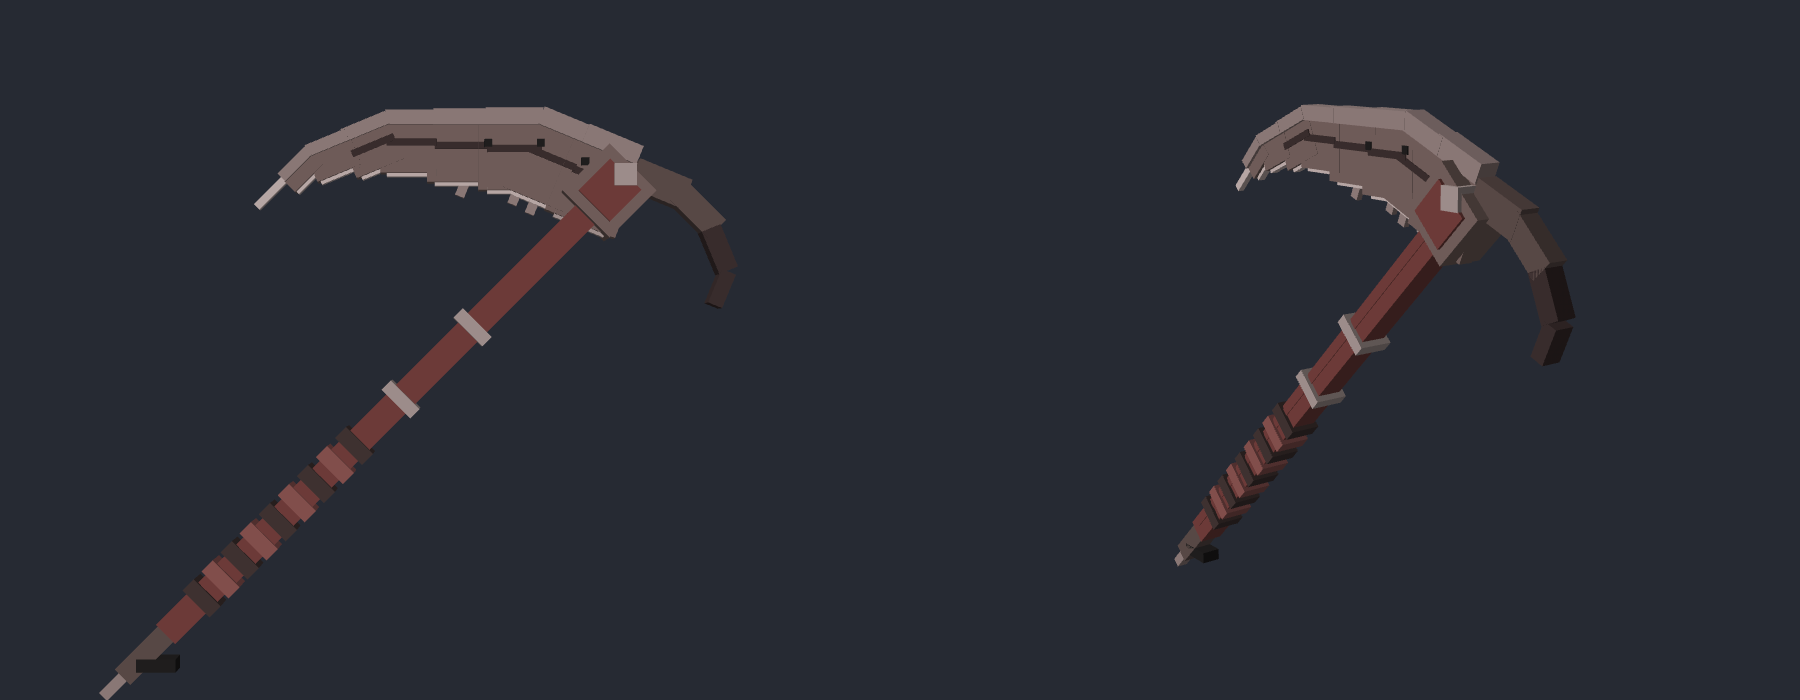
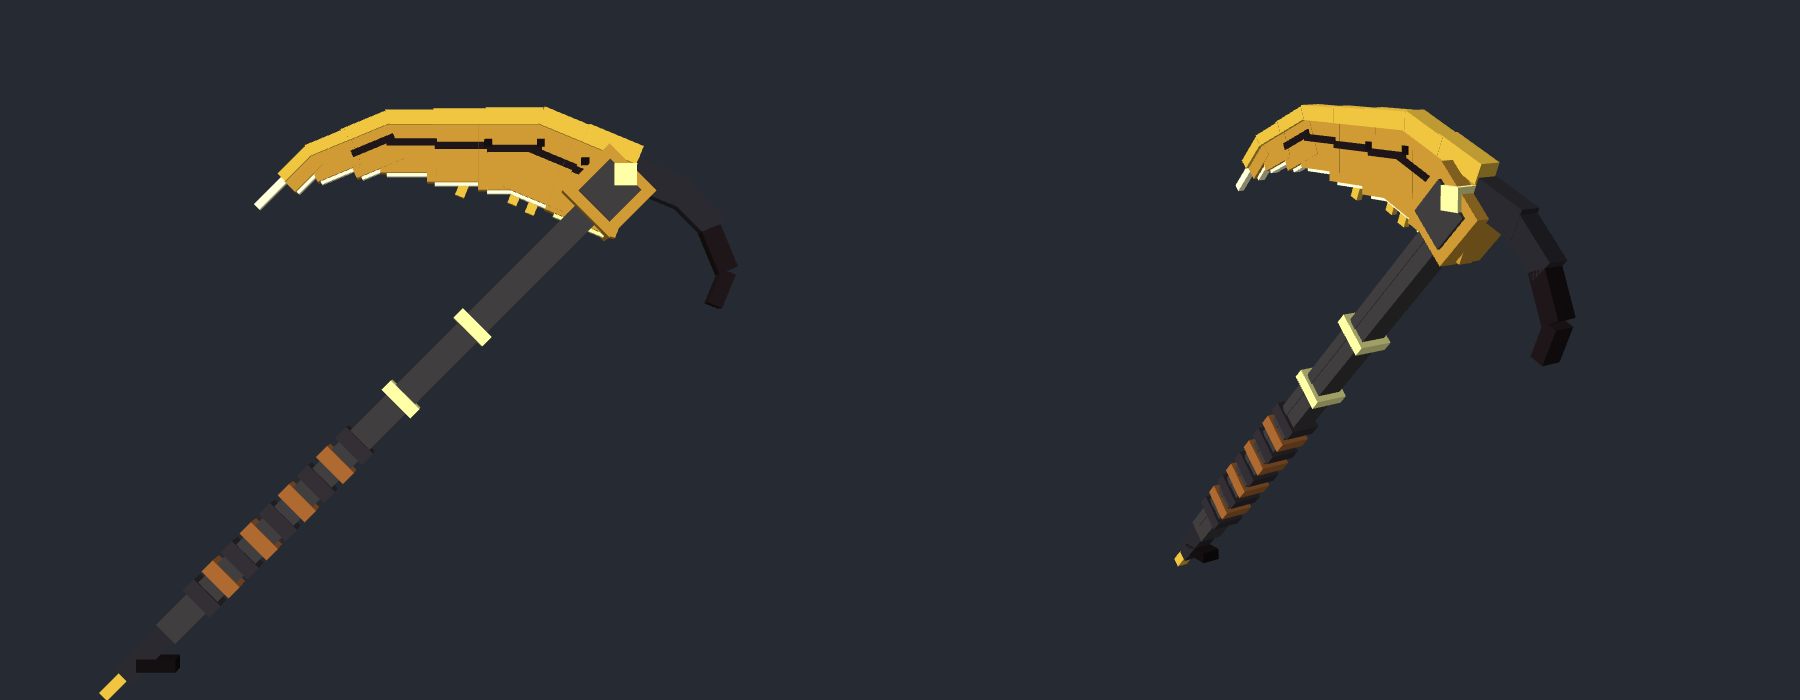
T26: коса в цветах облика души — чёрное древко, золотое лезвие и оковка (в обеих фазах)
Claude-Session: https://claude.ai/code/session_01Fjhr2dAH2KKAKWdYffHXhM

diff --git a/tools/cult_scythe_preview.html b/tools/cult_scythe_preview.html
@@ -1,6 +1,6 @@
 <!doctype html><meta charset="utf-8"><title>Коса Главы Культа</title><style>body{margin:0;background:#262a33}</style><body>
 <script src="https://cdnjs.cloudflare.com/ajax/libs/three.js/r128/three.min.js"></script><script>
-const D=[[[-0.481, 6.09, 7.69], [13.281, 6.71, 8.31], "#603432", {"axis": "z", "angle": 45, "origin": [6.4, 6.4, 8.0]}], [[-0.303, 6.41, 7.67], [12.903, 6.59, 8.33], "#603432", {"axis": "z", "angle": 45, "origin": [6.3, 6.5, 8.0]}], [[2.188, 1.938, 7.61], [2.548, 2.798, 8.39], "#372c2b", {"axis": "z", "angle": 45, "origin": [2.368, 2.368, 8.0]}], [[2.62, 2.37, 7.61], [2.98, 3.23, 8.39], "#734543", {"axis": "z", "angle": 45, "origin": [2.8, 2.8, 8.0]}], [[3.052, 2.802, 7.61], [3.412, 3.662, 8.39], "#372c2b", {"axis": "z", "angle": 45, "origin": [3.232, 3.232, 8.0]}], [[3.484, 3.234, 7.61], [3.844, 4.094, 8.39], "#734543", {"axis": "z", "angle": 45, "origin": [3.664, 3.664, 8.0]}], [[3.916, 3.666, 7.61], [4.276, 4.526, 8.39], "#372c2b", {"axis": "z", "angle": 45, "origin": [4.096, 4.096, 8.0]}], [[4.348, 4.098, 7.61], [4.708, 4.958, 8.39], "#734543", {"axis": "z", "angle": 45, "origin": [4.528, 4.528, 8.0]}], [[4.78, 4.53, 7.61], [5.14, 5.39, 8.39], "#372c2b", {"axis": "z", "angle": 45, "origin": [4.96, 4.96, 8.0]}], [[5.212, 4.962, 7.61], [5.572, 5.822, 8.39], "#734543", {"axis": "z", "angle": 45, "origin": [5.392, 5.392, 8.0]}], [[5.644, 5.394, 7.61], [6.004, 6.254, 8.39], "#372c2b", {"axis": "z", "angle": 45, "origin": [5.824, 5.824, 8.0]}], [[6.73, 6.42, 7.58], [7.03, 7.34, 8.42], "#8b7d7b", {"axis": "z", "angle": 45, "origin": [6.88, 6.88, 8.0]}], [[8.362, 8.052, 7.58], [8.662, 8.972, 8.42], "#8b7d7b", {"axis": "z", "angle": 45, "origin": [8.512, 8.512, 8.0]}], [[0.318, 0.85, 7.75], [1.882, 1.35, 8.25], "#4d403d", {"axis": "z", "angle": 45, "origin": [1.1, 1.1, 8.0]}], [[-0.043, 0.22, 7.85], [0.743, 0.48, 8.15], "#7a6a68", {"axis": "z", "angle": 45, "origin": [0.35, 0.35, 8.0]}], [[0.85, 0.65, 7.75], [1.75, 0.95, 8.25], "#1c1a1a", null], [[10.85, 10.85, 7.45], [12.35, 12.35, 8.55], "#62514e", {"axis": "z", "angle": 45, "origin": [11.6, 11.6, 8.0]}], [[11.1, 11.1, 7.375], [12.1, 12.1, 8.625], "#603432", {"axis": "z", "angle": 45, "origin": [11.6, 11.6, 8.0]}], [[11.7, 11.7, 7.35], [12.2, 12.2, 8.65], "#8b7d7b", null], [[12.156, 11.45, 7.76], [13.444, 12.15, 8.24], "#4d403d", {"axis": "z", "angle": -22.5, "origin": [12.8, 11.8, 8.0]}], [[13.031, 10.91, 7.76], [14.269, 11.49, 8.24], "#4d403d", {"axis": "z", "angle": -45, "origin": [13.65, 11.2, 8.0]}], [[13.92, 9.778, 7.76], [14.38, 10.822, 8.24], "#322727", {"axis": "z", "angle": 22.5, "origin": [14.15, 10.3, 8.0]}], [[14.03, 8.988, 7.76], [14.37, 9.812, 8.24], "#322727", {"axis": "z", "angle": -22.5, "origin": [14.2, 9.4, 8.0]}], [[11.047, 12.471, 7.75], [12.381, 12.917, 8.25], "#7a6a68", {"axis": "z", "angle": -22.5, "origin": [11.714, 12.694, 8.0]}], [[10.44, 10.822, 7.83], [12.172, 12.597, 8.17], "#62514e", {"axis": "z", "angle": -22.5, "origin": [11.306, 11.71, 8.0]}], [[10.764, 11.826, 7.81], [12.012, 11.986, 8.19], "#322727", {"axis": "z", "angle": -22.5, "origin": [11.388, 11.906, 8.0]}], [[10.342, 10.81, 7.91], [11.59, 10.97, 8.09], "#8b7d7b", {"axis": "z", "angle": -22.5, "origin": [10.966, 10.89, 8.0]}], [[10.034, 12.915, 7.75], [11.26, 13.332, 8.25], "#7a6a68", {"axis": "z", "angle": -22.5, "origin": [10.647, 13.124, 8.0]}], [[9.463, 11.363, 7.83], [11.064, 13.033, 8.17], "#62514e", {"axis": "z", "angle": -22.5, "origin": [10.264, 12.198, 8.0]}], [[9.766, 12.303, 7.81], [10.914, 12.463, 8.19], "#322727", {"axis": "z", "angle": -22.5, "origin": [10.34, 12.383, 8.0]}], [[9.37, 11.347, 7.91], [10.518, 11.507, 8.09], "#a29492", {"axis": "z", "angle": -22.5, "origin": [9.944, 11.427, 8.0]}], [[9.765, 11.11, 7.93], [9.985, 11.41, 8.07], "#7a6a68", {"axis": "z", "angle": -22.5, "origin": [9.875, 11.26, 8.0]}], [[8.817, 13.141, 7.75], [10.133, 13.529, 8.25], "#7a6a68", null], [[8.647, 11.66, 7.83], [10.303, 13.18, 8.17], "#62514e", null], [[8.851, 12.522, 7.81], [10.099, 12.682, 8.19], "#322727", null], [[8.851, 11.58, 7.91], [10.099, 11.74, 8.09], "#a29492", null], [[9.365, 11.33, 7.93], [9.585, 11.63, 8.07], "#7a6a68", {"axis": "z", "angle": -22.5, "origin": [9.475, 11.48, 8.0]}], [[7.621, 13.144, 7.75], [8.929, 13.504, 8.25], "#7a6a68", null], [[7.475, 11.843, 7.83], [9.076, 13.18, 8.17], "#62514e", null], [[7.651, 12.592, 7.81], [8.899, 12.752, 8.19], "#322727", null], [[7.651, 11.763, 7.91], [8.899, 11.923, 8.09], "#a29492", null], [[8.165, 11.513, 7.93], [8.385, 11.813, 8.07], "#7a6a68", {"axis": "z", "angle": -22.5, "origin": [8.275, 11.663, 8.0]}], [[6.525, 13.147, 7.75], [7.725, 13.478, 8.25], "#7a6a68", null], [[6.406, 12.055, 7.83], [7.844, 13.18, 8.17], "#62514e", null], [[6.551, 12.673, 7.81], [7.699, 12.833, 8.19], "#322727", null], [[6.551, 11.975, 7.91], [7.699, 12.135, 8.09], "#a29492", null], [[5.522, 12.949, 7.75], [6.612, 13.251, 8.25], "#7a6a68", {"axis": "z", "angle": 22.5, "origin": [6.067, 13.1, 8.0]}], [[5.65, 12.135, 7.83], [6.916, 13.023, 8.17], "#62514e", {"axis": "z", "angle": 22.5, "origin": [6.283, 12.579, 8.0]}], [[5.718, 12.597, 7.81], [6.766, 12.757, 8.19], "#322727", {"axis": "z", "angle": 22.5, "origin": [6.242, 12.677, 8.0]}], [[5.929, 12.088, 7.91], [6.977, 12.248, 8.09], "#a29492", {"axis": "z", "angle": 22.5, "origin": [6.453, 12.168, 8.0]}], [[4.703, 12.59, 7.75], [5.685, 12.863, 8.25], "#7a6a68", {"axis": "z", "angle": 22.5, "origin": [5.194, 12.726, 8.0]}], [[4.811, 12.021, 7.83], [5.9, 12.649, 8.17], "#62514e", {"axis": "z", "angle": 22.5, "origin": [5.356, 12.335, 8.0]}], [[5.002, 11.965, 7.91], [5.95, 12.125, 8.09], "#a29492", {"axis": "z", "angle": 22.5, "origin": [5.476, 12.045, 8.0]}], [[4.031, 12.117, 7.75], [4.904, 12.362, 8.25], "#7a6a68", {"axis": "z", "angle": 45, "origin": [4.468, 12.239, 8.0]}], [[4.208, 11.874, 7.83], [5.112, 12.221, 8.17], "#62514e", {"axis": "z", "angle": 45, "origin": [4.66, 12.047, 8.0]}], [[4.359, 11.844, 7.91], [5.207, 12.004, 8.09], "#a29492", {"axis": "z", "angle": 45, "origin": [4.783, 11.924, 8.0]}], [[3.432, 11.522, 7.92], [4.376, 11.702, 8.08], "#a29492", {"axis": "z", "angle": 45, "origin": [3.904, 11.612, 8.0]}], [[11.001, 12.219, 7.8], [11.181, 12.399, 8.2], "#1c1a1a", null], [[9.985, 12.64, 7.8], [10.165, 12.82, 8.2], "#1c1a1a", null], [[8.785, 12.64, 7.8], [8.965, 12.82, 8.2], "#1c1a1a", null]];const W=innerWidth,H=innerHeight;const R=new THREE.WebGLRenderer({antialias:true});R.setSize(W,H);document.body.appendChild(R.domElement);
+const D=[[[-0.481, 6.09, 7.69], [13.281, 6.71, 8.31], "#393737", {"axis": "z", "angle": 45, "origin": [6.4, 6.4, 8.0]}], [[-0.303, 6.41, 7.67], [12.903, 6.59, 8.33], "#393737", {"axis": "z", "angle": 45, "origin": [6.3, 6.5, 8.0]}], [[2.188, 1.938, 7.61], [2.548, 2.798, 8.39], "#2e2a2f", {"axis": "z", "angle": 45, "origin": [2.368, 2.368, 8.0]}], [[2.62, 2.37, 7.61], [2.98, 3.23, 8.39], "#9c5e2c", {"axis": "z", "angle": 45, "origin": [2.8, 2.8, 8.0]}], [[3.052, 2.802, 7.61], [3.412, 3.662, 8.39], "#2e2a2f", {"axis": "z", "angle": 45, "origin": [3.232, 3.232, 8.0]}], [[3.484, 3.234, 7.61], [3.844, 4.094, 8.39], "#9c5e2c", {"axis": "z", "angle": 45, "origin": [3.664, 3.664, 8.0]}], [[3.916, 3.666, 7.61], [4.276, 4.526, 8.39], "#2e2a2f", {"axis": "z", "angle": 45, "origin": [4.096, 4.096, 8.0]}], [[4.348, 4.098, 7.61], [4.708, 4.958, 8.39], "#9c5e2c", {"axis": "z", "angle": 45, "origin": [4.528, 4.528, 8.0]}], [[4.78, 4.53, 7.61], [5.14, 5.39, 8.39], "#2e2a2f", {"axis": "z", "angle": 45, "origin": [4.96, 4.96, 8.0]}], [[5.212, 4.962, 7.61], [5.572, 5.822, 8.39], "#9c5e2c", {"axis": "z", "angle": 45, "origin": [5.392, 5.392, 8.0]}], [[5.644, 5.394, 7.61], [6.004, 6.254, 8.39], "#2e2a2f", {"axis": "z", "angle": 45, "origin": [5.824, 5.824, 8.0]}], [[6.73, 6.42, 7.58], [7.03, 7.34, 8.42], "#e8e895", {"axis": "z", "angle": 45, "origin": [6.88, 6.88, 8.0]}], [[8.362, 8.052, 7.58], [8.662, 8.972, 8.42], "#e8e895", {"axis": "z", "angle": 45, "origin": [8.512, 8.512, 8.0]}], [[0.318, 0.85, 7.75], [1.882, 1.35, 8.25], "#26252b", {"axis": "z", "angle": 45, "origin": [1.1, 1.1, 8.0]}], [[-0.043, 0.22, 7.85], [0.743, 0.48, 8.15], "#d6af39", {"axis": "z", "angle": 45, "origin": [0.35, 0.35, 8.0]}], [[0.85, 0.65, 7.75], [1.75, 0.95, 8.25], "#120d0e", null], [[10.85, 10.85, 7.45], [12.35, 12.35, 8.55], "#b9892e", {"axis": "z", "angle": 45, "origin": [11.6, 11.6, 8.0]}], [[11.1, 11.1, 7.375], [12.1, 12.1, 8.625], "#393737", {"axis": "z", "angle": 45, "origin": [11.6, 11.6, 8.0]}], [[11.7, 11.7, 7.35], [12.2, 12.2, 8.65], "#e8e895", null], [[12.156, 11.45, 7.76], [13.444, 12.15, 8.24], "#26252b", {"axis": "z", "angle": -22.5, "origin": [12.8, 11.8, 8.0]}], [[13.031, 10.91, 7.76], [14.269, 11.49, 8.24], "#26252b", {"axis": "z", "angle": -45, "origin": [13.65, 11.2, 8.0]}], [[13.92, 9.778, 7.76], [14.38, 10.822, 8.24], "#1b1415", {"axis": "z", "angle": 22.5, "origin": [14.15, 10.3, 8.0]}], [[14.03, 8.988, 7.76], [14.37, 9.812, 8.24], "#1b1415", {"axis": "z", "angle": -22.5, "origin": [14.2, 9.4, 8.0]}], [[11.047, 12.471, 7.75], [12.381, 12.917, 8.25], "#d6af39", {"axis": "z", "angle": -22.5, "origin": [11.714, 12.694, 8.0]}], [[10.44, 10.822, 7.83], [12.172, 12.597, 8.17], "#b9892e", {"axis": "z", "angle": -22.5, "origin": [11.306, 11.71, 8.0]}], [[10.764, 11.826, 7.81], [12.012, 11.986, 8.19], "#1b1415", {"axis": "z", "angle": -22.5, "origin": [11.388, 11.906, 8.0]}], [[10.342, 10.81, 7.91], [11.59, 10.97, 8.09], "#e8e895", {"axis": "z", "angle": -22.5, "origin": [10.966, 10.89, 8.0]}], [[10.034, 12.915, 7.75], [11.26, 13.332, 8.25], "#d6af39", {"axis": "z", "angle": -22.5, "origin": [10.647, 13.124, 8.0]}], [[9.463, 11.363, 7.83], [11.064, 13.033, 8.17], "#b9892e", {"axis": "z", "angle": -22.5, "origin": [10.264, 12.198, 8.0]}], [[9.766, 12.303, 7.81], [10.914, 12.463, 8.19], "#1b1415", {"axis": "z", "angle": -22.5, "origin": [10.34, 12.383, 8.0]}], [[9.37, 11.347, 7.91], [10.518, 11.507, 8.09], "#f6f2c4", {"axis": "z", "angle": -22.5, "origin": [9.944, 11.427, 8.0]}], [[9.765, 11.11, 7.93], [9.985, 11.41, 8.07], "#d6af39", {"axis": "z", "angle": -22.5, "origin": [9.875, 11.26, 8.0]}], [[8.817, 13.141, 7.75], [10.133, 13.529, 8.25], "#d6af39", null], [[8.647, 11.66, 7.83], [10.303, 13.18, 8.17], "#b9892e", null], [[8.851, 12.522, 7.81], [10.099, 12.682, 8.19], "#1b1415", null], [[8.851, 11.58, 7.91], [10.099, 11.74, 8.09], "#f6f2c4", null], [[9.365, 11.33, 7.93], [9.585, 11.63, 8.07], "#d6af39", {"axis": "z", "angle": -22.5, "origin": [9.475, 11.48, 8.0]}], [[7.621, 13.144, 7.75], [8.929, 13.504, 8.25], "#d6af39", null], [[7.475, 11.843, 7.83], [9.076, 13.18, 8.17], "#b9892e", null], [[7.651, 12.592, 7.81], [8.899, 12.752, 8.19], "#1b1415", null], [[7.651, 11.763, 7.91], [8.899, 11.923, 8.09], "#f6f2c4", null], [[8.165, 11.513, 7.93], [8.385, 11.813, 8.07], "#d6af39", {"axis": "z", "angle": -22.5, "origin": [8.275, 11.663, 8.0]}], [[6.525, 13.147, 7.75], [7.725, 13.478, 8.25], "#d6af39", null], [[6.406, 12.055, 7.83], [7.844, 13.18, 8.17], "#b9892e", null], [[6.551, 12.673, 7.81], [7.699, 12.833, 8.19], "#1b1415", null], [[6.551, 11.975, 7.91], [7.699, 12.135, 8.09], "#f6f2c4", null], [[5.522, 12.949, 7.75], [6.612, 13.251, 8.25], "#d6af39", {"axis": "z", "angle": 22.5, "origin": [6.067, 13.1, 8.0]}], [[5.65, 12.135, 7.83], [6.916, 13.023, 8.17], "#b9892e", {"axis": "z", "angle": 22.5, "origin": [6.283, 12.579, 8.0]}], [[5.718, 12.597, 7.81], [6.766, 12.757, 8.19], "#1b1415", {"axis": "z", "angle": 22.5, "origin": [6.242, 12.677, 8.0]}], [[5.929, 12.088, 7.91], [6.977, 12.248, 8.09], "#f6f2c4", {"axis": "z", "angle": 22.5, "origin": [6.453, 12.168, 8.0]}], [[4.703, 12.59, 7.75], [5.685, 12.863, 8.25], "#d6af39", {"axis": "z", "angle": 22.5, "origin": [5.194, 12.726, 8.0]}], [[4.811, 12.021, 7.83], [5.9, 12.649, 8.17], "#b9892e", {"axis": "z", "angle": 22.5, "origin": [5.356, 12.335, 8.0]}], [[5.002, 11.965, 7.91], [5.95, 12.125, 8.09], "#f6f2c4", {"axis": "z", "angle": 22.5, "origin": [5.476, 12.045, 8.0]}], [[4.031, 12.117, 7.75], [4.904, 12.362, 8.25], "#d6af39", {"axis": "z", "angle": 45, "origin": [4.468, 12.239, 8.0]}], [[4.208, 11.874, 7.83], [5.112, 12.221, 8.17], "#b9892e", {"axis": "z", "angle": 45, "origin": [4.66, 12.047, 8.0]}], [[4.359, 11.844, 7.91], [5.207, 12.004, 8.09], "#f6f2c4", {"axis": "z", "angle": 45, "origin": [4.783, 11.924, 8.0]}], [[3.432, 11.522, 7.92], [4.376, 11.702, 8.08], "#f6f2c4", {"axis": "z", "angle": 45, "origin": [3.904, 11.612, 8.0]}], [[11.001, 12.219, 7.8], [11.181, 12.399, 8.2], "#120d0e", null], [[9.985, 12.64, 7.8], [10.165, 12.82, 8.2], "#120d0e", null], [[8.785, 12.64, 7.8], [8.965, 12.82, 8.2], "#120d0e", null]];const W=innerWidth,H=innerHeight;const R=new THREE.WebGLRenderer({antialias:true});R.setSize(W,H);document.body.appendChild(R.domElement);
 const S=new THREE.Scene();S.background=new THREE.Color(0x262a33);S.add(new THREE.AmbientLight(0xffffff,.55));const L=new THREE.DirectionalLight(0xffffff,.8);L.position.set(-3,5,6);S.add(L);
 const C=new THREE.PerspectiveCamera(30,W/H,.1,200);let yaw=.3,pitch=.1;const G=new THREE.Group();
 for(const [a,b,col,rot] of D){const m=new THREE.Mesh(new THREE.BoxGeometry(b[0]-a[0],b[1]-a[1],b[2]-a[2]),new THREE.MeshLambertMaterial({color:col}));

diff --git a/tools/gen_cult_scythe.py b/tools/gen_cult_scythe.py
@@ -13,9 +13,9 @@ from PIL import Image
 
 HERE = os.path.dirname(os.path.abspath(__file__))
 A = os.path.join(HERE, '..', 'src', 'main', 'resources', 'assets', 'pohsmp_core')
-PAL = {   # цвета decrepit_scythe Iron's + 2 полутона
-    'k': '#1c1a1a', 'w0': '#231012', 'w1': '#2f2122', 'w2': '#372c2b', 'w3': '#603432', 'w4': '#734543',
-    'b0': '#322727', 'b1': '#4d403d', 'b2': '#62514e', 'b3': '#7a6a68', 'b4': '#8b7d7b', 'b5': '#a29492',
+PAL = {   # владелец 20.11: в обеих фазах — как облик души босса: тёмное древко и сталь, золото венца (палитра cult_leader_soul_mode)
+    'k': '#120d0e', 'w0': '#1b1415', 'w1': '#26252b', 'w2': '#2e2a2f', 'w3': '#393737', 'w4': '#9c5e2c',
+    'b0': '#1b1415', 'b1': '#26252b', 'b2': '#b9892e', 'b3': '#d6af39', 'b4': '#e8e895', 'b5': '#f6f2c4',
 }
 CELL = {k: (i % 16, i // 16) for i, k in enumerate(PAL)}
 R3 = lambda v: round(v, 3)

diff --git a/docs/specs/tasks/T26_cult_leader_boss.md b/docs/specs/tasks/T26_cult_leader_boss.md
@@ -128,7 +128,7 @@ ExtendedServerBossEvent Iron's).
 
 ## Коса — своя объёмная модель (владелец 20.11)
 `models/item/cult_scythe.json` (генератор `tools/gen_cult_scythe.py`, превью `tools/cult_scythe_preview.html`, кадр `docs/media/t26_scythe.png`):
-детализированная 3D-коса **в цветах косы Тироса** (decrepit_scythe Iron's) — древко с обмоткой и стальными кольцами, подток-шип,
+детализированная 3D-коса **в цветах облика души босса, одинаковая в обеих фазах** (владелец: чёрное древко, золото венца на лезвии, кольцах, ступице) — древко с обмоткой и стальными кольцами, подток-шип,
 ступица, крюк, лезвие-полумесяц с обухом, долом, светлой кромкой и зазубринами. В руке — 3D (дисплей как у template_verylarge_sword),
 в GUI/на земле — плоская иконка Iron's. **Коду:** зарегистрировать предмет `pohsmp_core:cult_scythe` (без рецепта, не выдаётся игрокам)
 и давать его боссу вместо `ItemRegistry.DECREPIT_SCYTHE` (в т.ч. в призыве косы). Проверить хват в руке босса, при сдвиге — поправить
